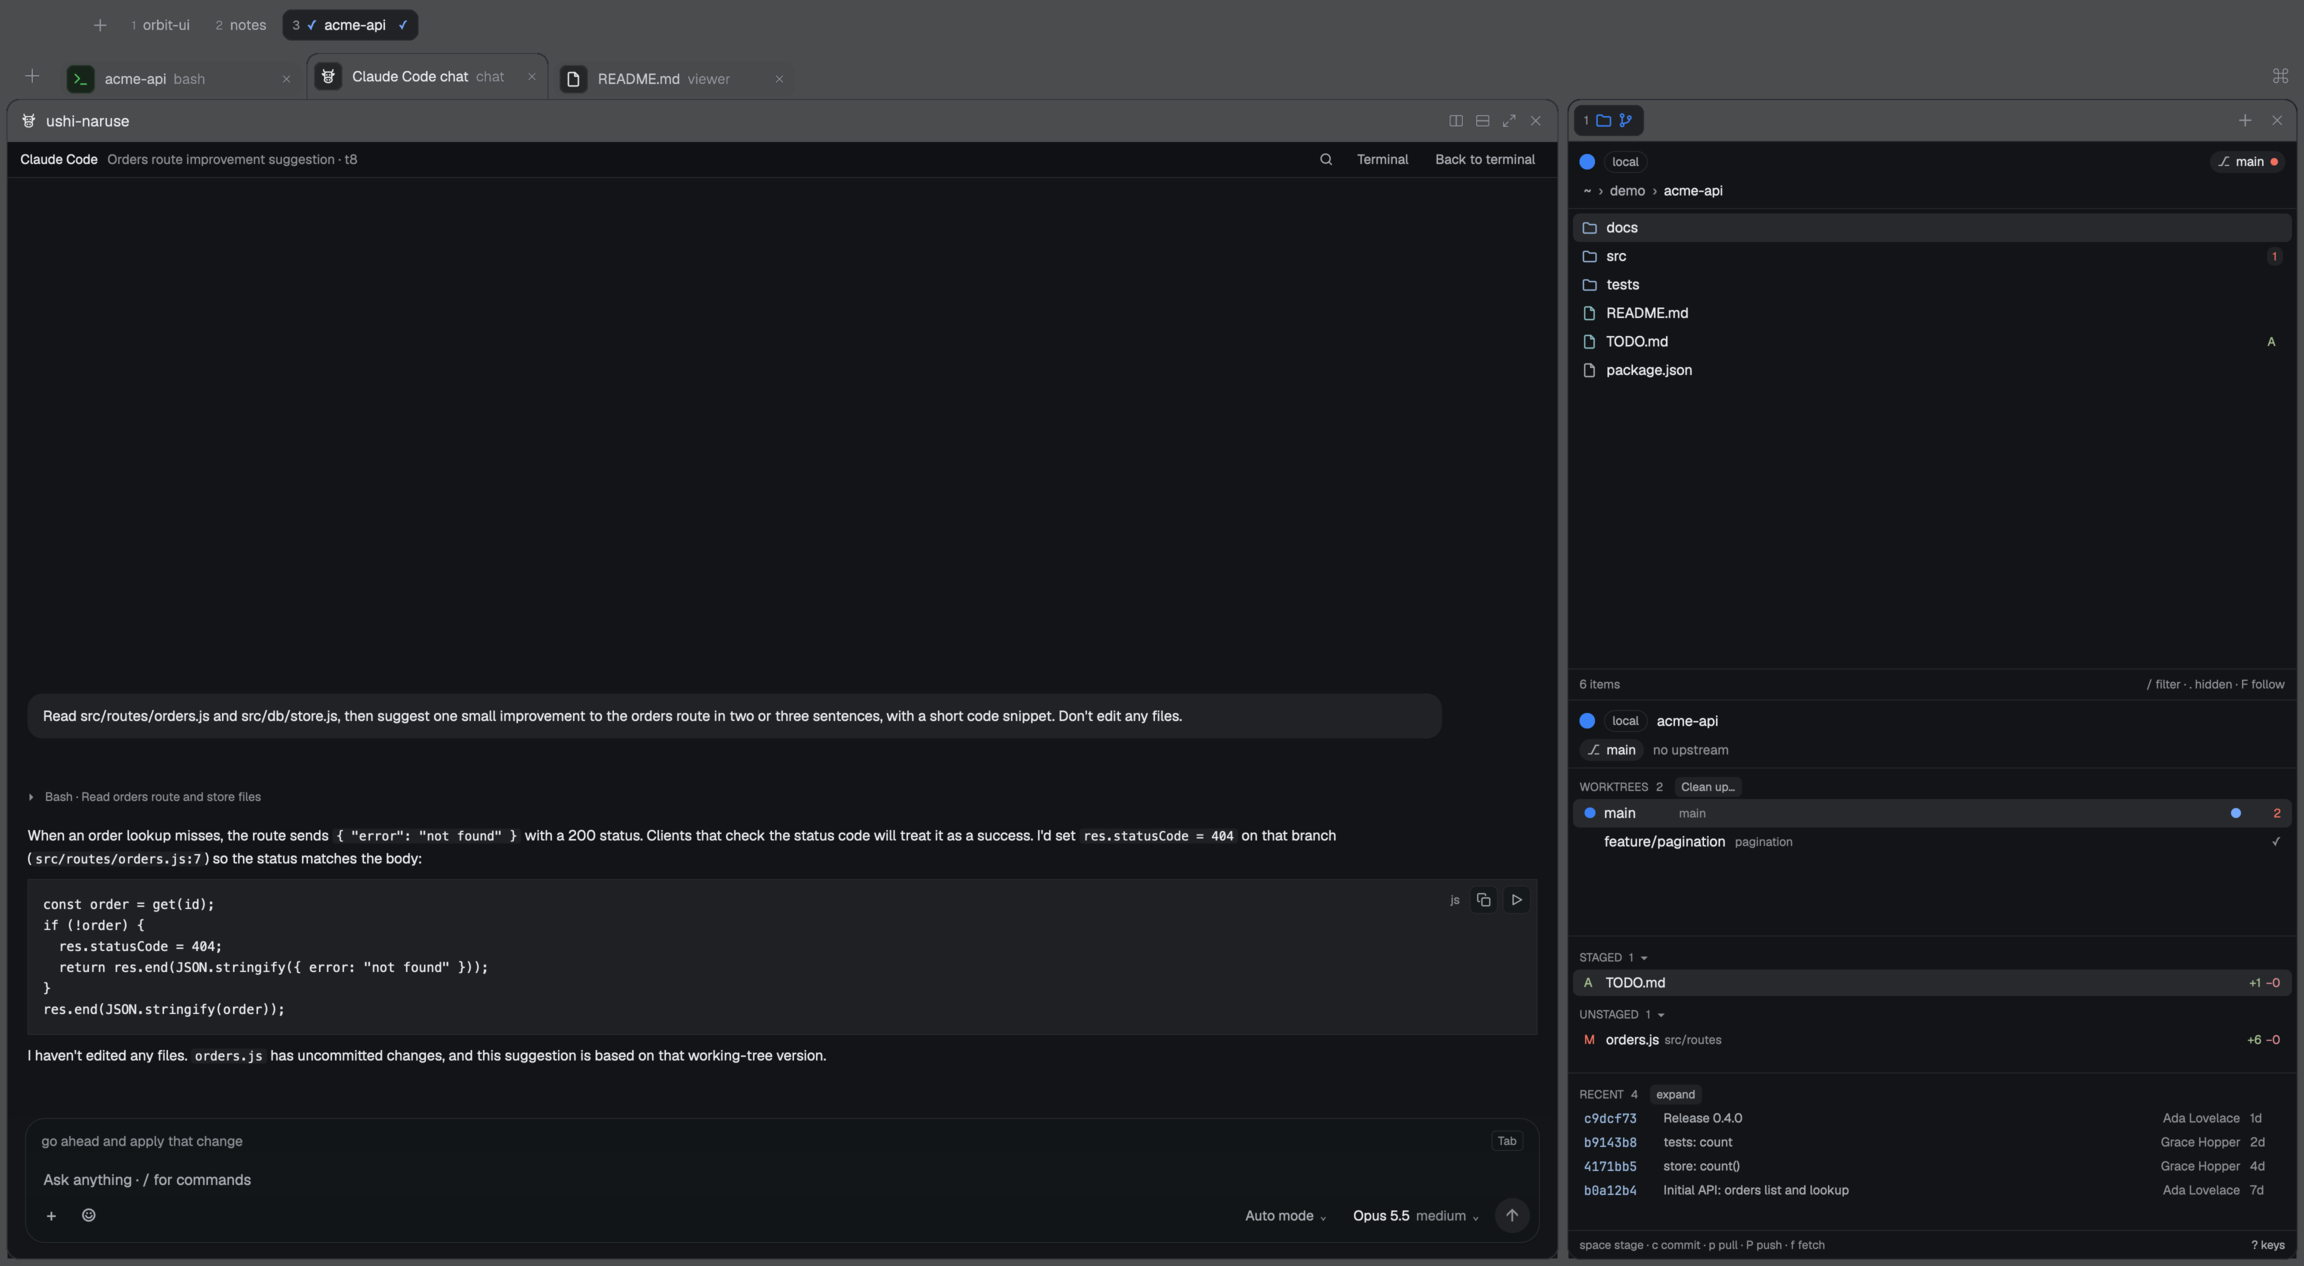
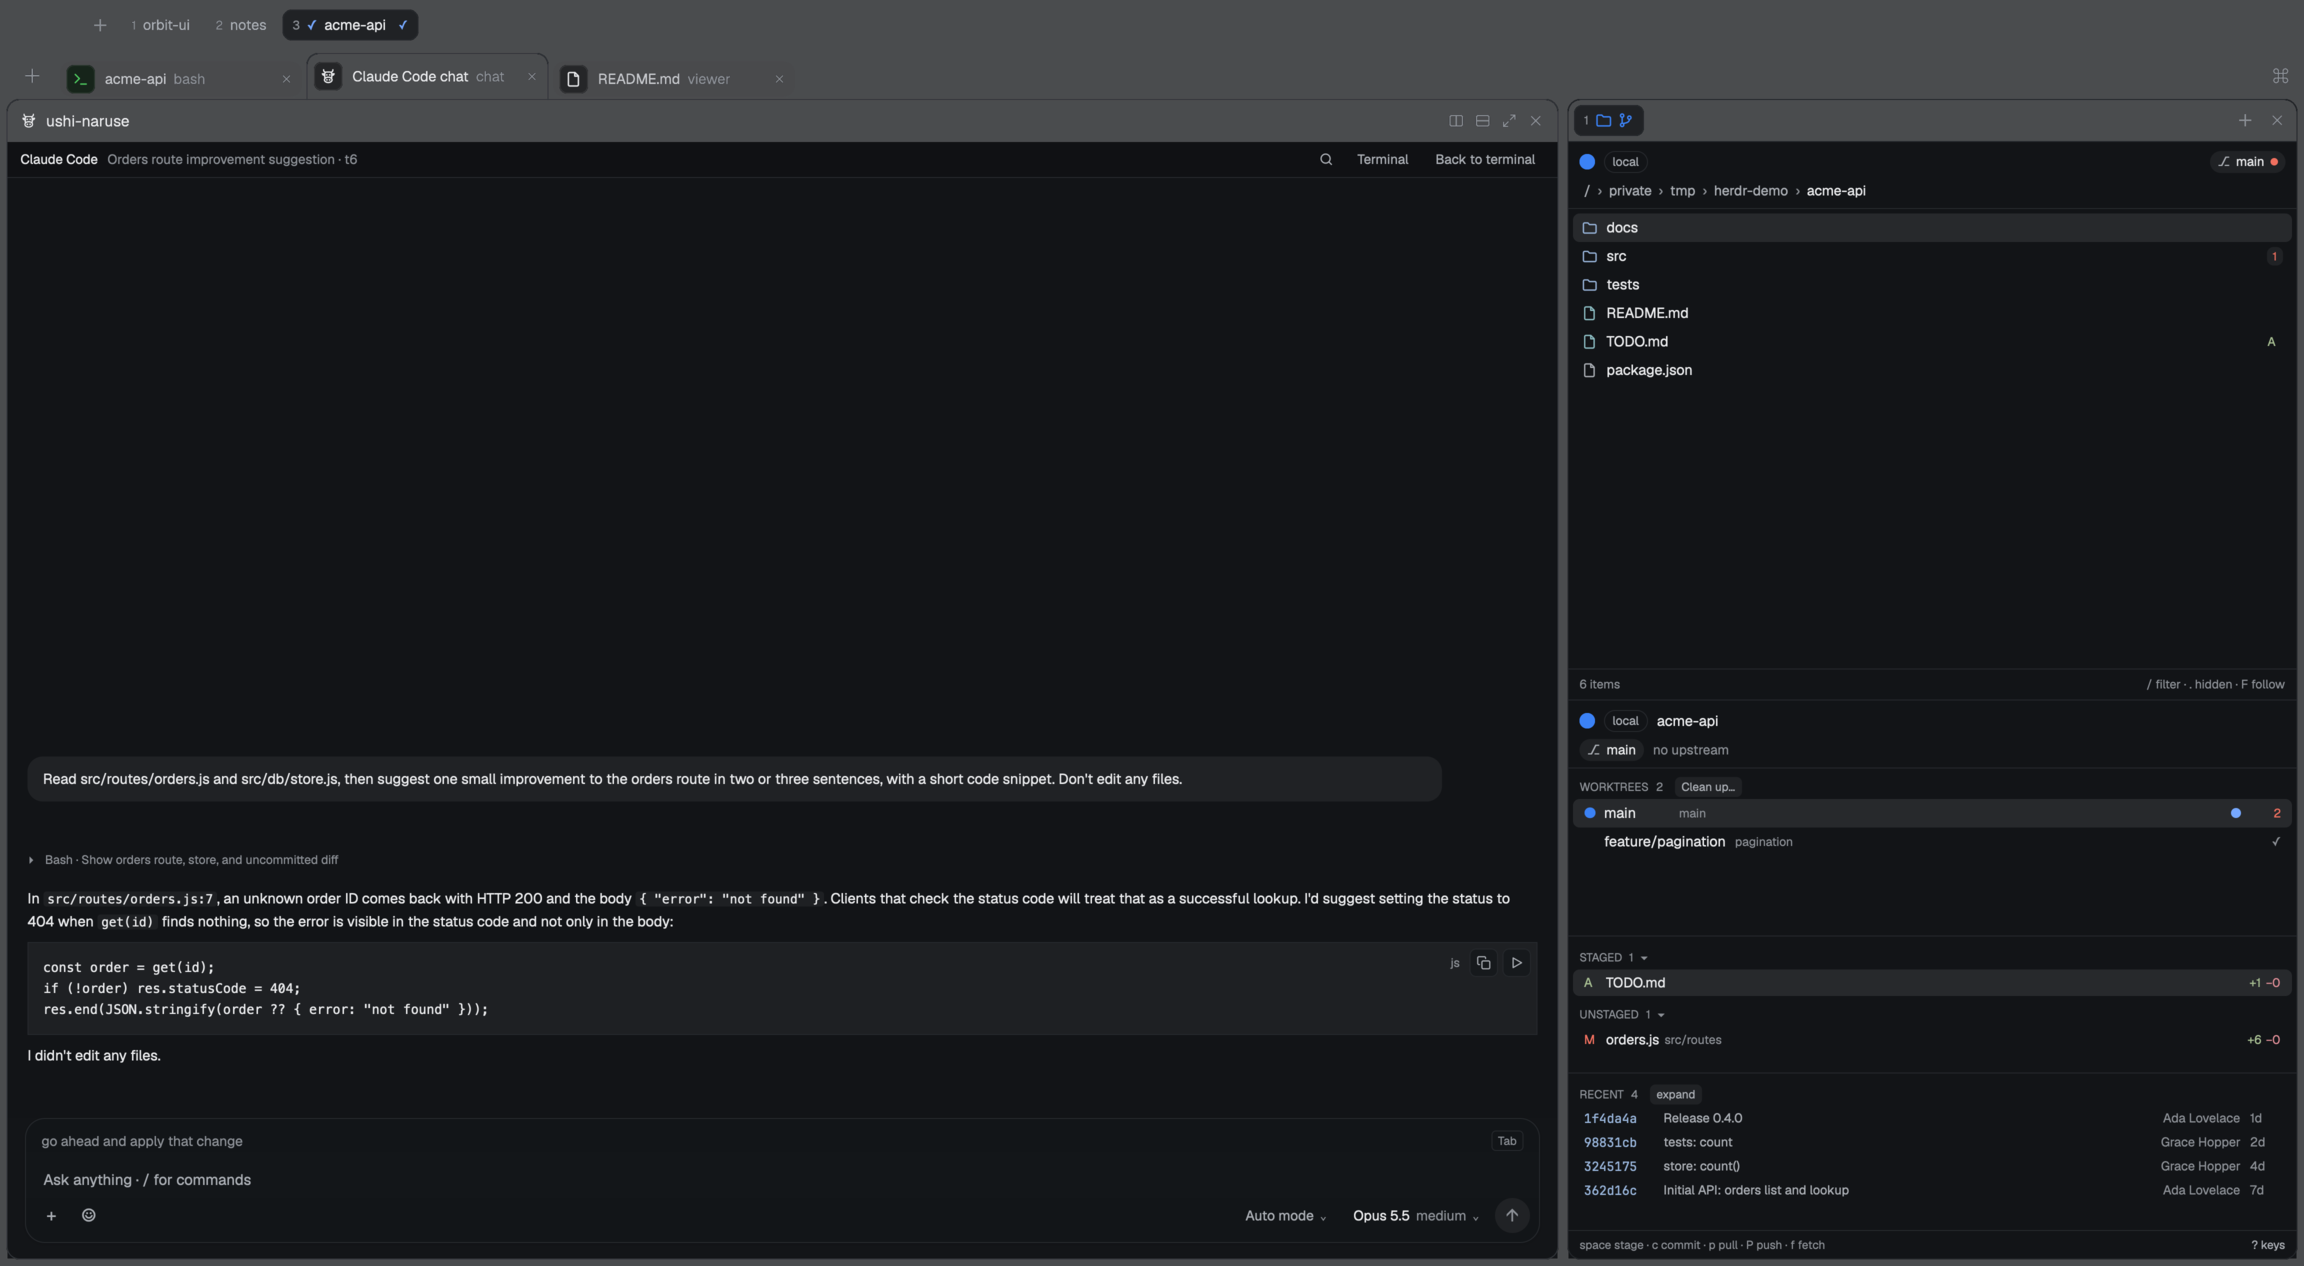
README without personal names or private repos; the gallery as a script
- README: no user, host or private repository names (the install example is
  generic, History no longer points at a private repo, ui-lab's row drops a
  private project's name).
- tools/gallery.sh retakes docs/gallery/: its own Herdr window and herdr-core
  session, made-up projects in /tmp/herdr-demo (no username in any path) with
  made-up authors, plain bash prompts, the scenes, the shots, an OCR check of each
  image for the user, host and home folder, and cleanup on exit (the app, the
  core and its saved state, the demo folder, Claude's demo transcript and caches).
- The gallery images, retaken by it.

Checked on njv-mbp-m1 (a full run; images reviewed). Linux untested; Windows not
supported (no Herdr app there).

diff --git a/README.md b/README.md
@@ -19,12 +19,15 @@ JavaScript panels drawn natively by Herdr's GPUI shell.
 | `cria-file-preview` | File viewer in a tab (vendored from gsydler/herdr-cria, Apache-2.0; see `vendor/cria/VENDOR.md`): Markdown with images and links, PDF, images, CSV/TSV, JSON, code, plus local diff view and "Open in <app>" |
 | `ushi-naruse`, `ushi-naruse-file` | A chat view for Claude Code and Codex: our fork of naruse/herdr-chat, see [ushi-naruse](#ushi-naruse-chat-a-fork-of-naruseherdr-chat) |
 | `term-menu` | Dock-aware terminal right-click menu |
-| `ui-lab` | Capability demo: Claude ↔ panel round trip, hayami usage meters, floating window |
+| `ui-lab` | Capability demo: Claude ↔ panel round trip, usage meters, floating window |
 
 ## Gallery
 
 Screenshots from a demo window with made-up projects ("acme-api", "orbit-ui") and
-authors.
+authors. `tools/gallery.sh` takes them again: it runs its own Herdr window on its own
+herdr-core session (none of your spaces show), builds the demo projects in
+`/tmp/herdr-demo`, sets up the scenes, takes the shots, checks each image with OCR for
+your user, host and home folder, and removes everything it made.
 
 | | |
 |---|---|
@@ -67,7 +70,8 @@ What we changed from upstream:
 - **Back to terminal**, and a `hide` prop that hides the terminal behind the chat when it
   opens (Open as chat).
 - **One chat in every window**: the agent is found by a label (`ushi.id`), not by its
-  address, which differs between windows (the Mac's and njv-cachyos's own); and it
+  address, which differs between windows (a machine's own window and another
+  computer's window on it); and it
   hides its terminal when another mod asks (`×` on that terminal).
 
 What the other mods add around it: the menu entries, hidden only where the chat can't
@@ -109,8 +113,8 @@ npm test    # ./run-tests.sh: ours + the vendored cria tests, under a throwaway 
 ```sh
 ./install.sh                     # all mods into ~/.config/herdr-app
 ./install.sh ui-lab              # one mod
-# njv-cachyos: default home gets copies, work home gets symlinks to them
-./install.sh --home ~/.config/herdr-app --link ~/.config/herdr-app-work
+# Two app homes on one machine: the first gets copies, the second links to them
+./install.sh --home ~/.config/herdr-app --link ~/.config/herdr-app-second
 ```
 
 Herdr does not hot-reload a mod reached through a symlink, so the app home
@@ -123,6 +127,5 @@ The API reference is written by the app on every start:
 
 ## History
 
-The first six mods were moved here from
-`ushineko/dotfiles:setup/njv-cachyos/herdr-app/default/mods` (last commit there:
-`fe01cbb`). Their earlier history is in that repo.
+The first six mods were moved here from a private configuration repository; their
+earlier history stays there.
